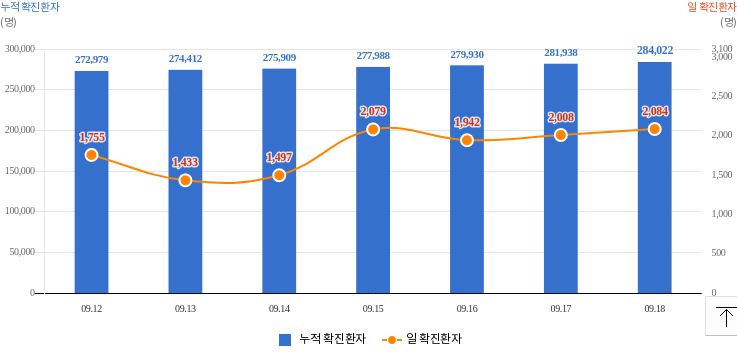
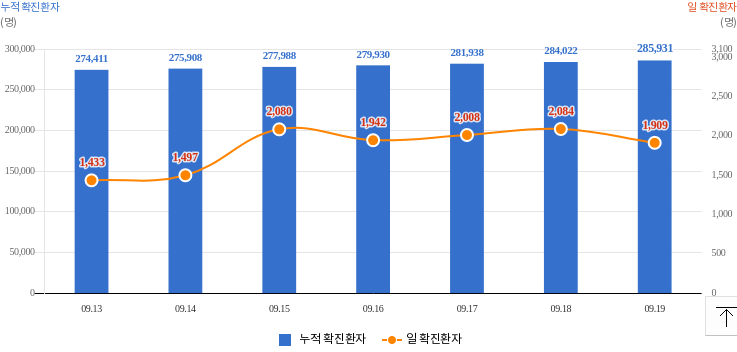
Run crawler and update current data

diff --git a/data.js b/data.js
@@ -7,7 +7,7 @@ var 검사중 = '869';
 var 검사결과 = '430,868';
 var 자가격리자 = '224';
 var 거리두기단계 = '사회적 거리두기  3단계 시행 : 2021.9.6.(월) 0시 ~ 10.3.(일) 24시';
-var 국내발생 = '2,047';
-var 해외발생 = '40';
-var 합계 = '2087';
+var 국내발생 = '1,871';
+var 해외발생 = '39';
+var 합계 = '1910';
 var data = [];
